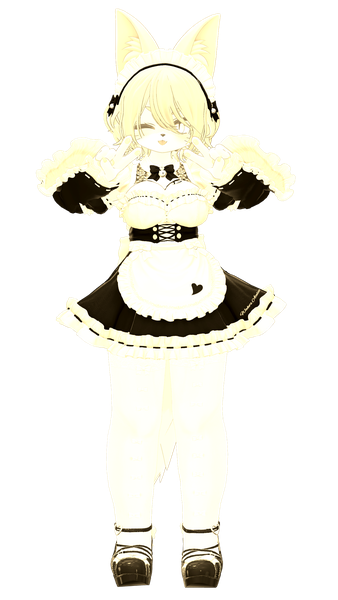
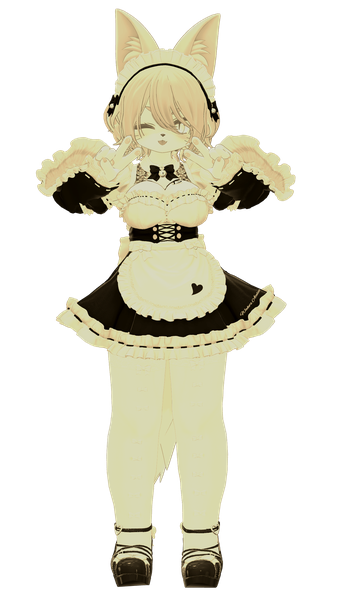
feat: サイズ確認パネル追加・Cute Nukko明るさ調整
- キャスト詳細ビューに大中小サイズ確認パネルを追加
- 現在のサイズをアクティブ表示・クリックでリアルタイム切替
- Cute Nukkoの木札用画像を明るさ50%で再生成
- キャスト全サイズを100%（デフォルト）にリセット
- 狐乃さまあに名前変更

Changed region(s): [[0.0888, 0.0, 0.8876, 0.99], [0.6805, 0.33, 0.7101, 0.36], [0.2367, 0.33, 0.2663, 0.36]]

diff --git a/style.css b/style.css
@@ -1022,12 +1022,12 @@ main {
     bottom: var(--spacing-md);
     right: var(--spacing-md);
     z-index: 2;
-    width: 36px;
-    height: 36px;
+    width: 44px;
+    height: 44px;
     border-radius: 50%;
-    border: 1px solid rgba(212, 175, 55, 0.4);
-    background: rgba(10, 6, 4, 0.6);
-    font-size: 1rem;
+    border: 1px solid rgba(212, 175, 55, 0.5);
+    background: rgba(10, 6, 4, 0.75);
+    font-size: 1.2rem;
     cursor: pointer;
     display: flex;
     align-items: center;
@@ -1037,35 +1037,35 @@ main {
 }
 
 .size-check-btn:hover {
-    background: rgba(212, 175, 55, 0.2);
+    background: rgba(212, 175, 55, 0.25);
 }
 
 /* サイズ比較パネル */
 .size-panel {
     position: absolute;
-    bottom: calc(var(--spacing-md) + 44px);
+    bottom: calc(var(--spacing-md) + 54px);
     right: var(--spacing-md);
     z-index: 2;
-    background: rgba(10, 6, 4, 0.82);
-    border: 1px solid rgba(212, 175, 55, 0.4);
-    border-radius: 10px;
-    padding: 0.8rem 1rem;
-    min-width: 140px;
+    background: rgba(10, 6, 4, 0.88);
+    border: 1px solid rgba(212, 175, 55, 0.5);
+    border-radius: 12px;
+    padding: 1rem 1.2rem;
+    min-width: 180px;
 }
 
 .size-panel[hidden] { display: none; }
 
 .size-panel-title {
-    font-size: 0.72rem;
-    color: rgba(212, 175, 55, 0.7);
+    font-size: 0.8rem;
+    color: rgba(212, 175, 55, 0.8);
     text-align: center;
-    margin-bottom: 0.6rem;
+    margin-bottom: 0.8rem;
     letter-spacing: 0.05em;
 }
 
 .size-panel-grid {
     display: flex;
-    gap: 0.8rem;
+    gap: 1rem;
     align-items: flex-end;
     justify-content: center;
 }
@@ -1075,12 +1075,13 @@ main {
     display: flex;
     flex-direction: column;
     align-items: center;
-    gap: 0.3rem;
+    gap: 0.4rem;
     cursor: pointer;
-    padding: 0.3rem;
-    border-radius: 6px;
+    padding: 0.5rem 0.6rem;
+    border-radius: 8px;
     border: 1px solid transparent;
     transition: border-color 0.2s, background 0.2s;
+    min-width: 44px;
 }
 
 .size-option:hover {
@@ -1090,24 +1091,25 @@ main {
 
 .size-option.active {
     border-color: var(--gold-accent);
-    background: rgba(212, 175, 55, 0.12);
+    background: rgba(212, 175, 55, 0.15);
 }
 
 .size-bar-wrap {
-    width: 24px;
-    height: 60px;
+    width: 28px;
+    height: 72px;
     display: flex;
     align-items: flex-end;
 }
 
 .size-bar {
     width: 100%;
-    background: linear-gradient(to top, var(--gold-accent), rgba(212, 175, 55, 0.4));
+    background: linear-gradient(to top, var(--gold-accent), rgba(212, 175, 55, 0.35));
     border-radius: 3px 3px 0 0;
 }
 
 .size-option span {
-    font-size: 0.72rem;
+    font-size: 0.85rem;
+    font-weight: 600;
     color: var(--paper-white);
 }
 

diff --git a/script.js b/script.js
@@ -341,9 +341,12 @@ function openCastDetail(cast) {
     if (cast.size === 'medium') castDetailVisual.classList.add('size-medium');
     if (cast.size === 'small')  castDetailVisual.classList.add('size-small');
 
-    // サイズパネルを閉じてアクティブ状態をリセット
+    // サイズパネルを閉じて現在のサイズをアクティブ表示
     sizePanel.hidden = true;
-    sizePanel.querySelectorAll('.size-option').forEach((o) => o.classList.remove('active'));
+    const currentSize = cast.size || 'large';
+    sizePanel.querySelectorAll('.size-option').forEach((o) => {
+        o.classList.toggle('active', o.dataset.size === currentSize);
+    });
 
     // 木札グリッドを非表示 → 詳細ビューを表示
     castCard.hidden = true;
